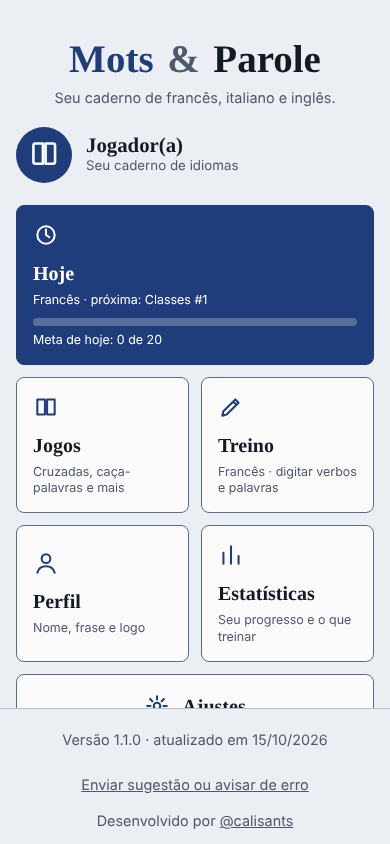
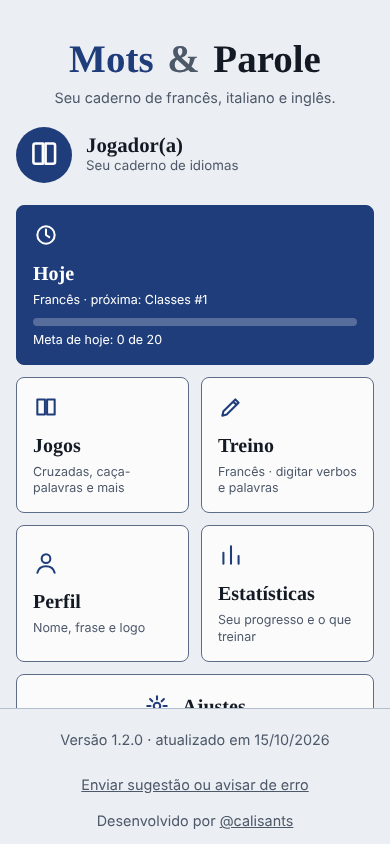
Tremor da tela como opção, tela própria de sugestões com envio por formulário do Google (sem GitHub)
Claude-Session: https://claude.ai/code/session_016zLFZSsmFk4gFpDYDLNisR

Changed region(s): [[0.4, 0.8626, 0.8615, 0.8934], [0.1538, 0.8626, 0.3692, 0.8934]]

diff --git a/index.html b/index.html
@@ -502,7 +502,15 @@ svg{display:block}
               <button type="button" data-k="hap" data-v="on">Ligada</button>
               <button type="button" data-k="hap" data-v="off">Desligada</button>
             </div>
-            <p class="help">Vibração leve no celular (não funciona em iPhone). O tremor suave na tela acontece sempre, a menos que o aparelho peça menos movimento.</p>
+            <p class="help">Vibração leve no celular (não funciona em iPhone).</p>
+          </section>
+          <section>
+            <h2 class="lab">Tremor da tela ao errar</h2>
+            <div class="seg" role="group" aria-label="Tremor da tela ao errar">
+              <button type="button" data-k="trem" data-v="on">Ligado</button>
+              <button type="button" data-k="trem" data-v="off">Desligado</button>
+            </div>
+            <p class="help">Se o aparelho estiver com "reduzir movimento", o tremor fica desligado de qualquer jeito.</p>
           </section>
         </div>
         <div class="stack">
@@ -547,6 +555,22 @@ svg{display:block}
     </div>
   </section>
 
+  <section class="screen" id="s-feedback" hidden>
+    <header class="bar">
+      <button type="button" class="btn icon" id="fb-back" aria-label="Voltar"><svg viewBox="0 0 24 24" width="22" height="22" aria-hidden="true"><path d="M15 5l-7 7 7 7" fill="none" stroke="currentColor" stroke-width="2.2" stroke-linecap="round" stroke-linejoin="round"/></svg></button>
+      <div class="ttl"><h2>Sugestão ou erro</h2></div>
+    </header>
+    <div class="scroll">
+      <p class="help">Conte o que você gostaria de melhorar ou o que deu errado. Vai para a Camila, que cuida do app.</p>
+      <div class="seg" role="group" aria-label="Tipo" style="margin-bottom:12px"><button type="button" data-fbk="Sugestão" aria-pressed="true">Sugestão</button><button type="button" data-fbk="Erro" aria-pressed="false">Aviso de erro</button></div>
+      <label for="fb-text" class="help">Sua mensagem (se for erro: em qual página e o que apareceu)</label>
+      <textarea id="fb-text" class="fbta" maxlength="1500"></textarea>
+      <label class="fbck"><input type="checkbox" id="fb-diag" checked> Enviar junto a versão do app, o idioma e o modelo do aparelho. Seu progresso e seu nome não vão.</label>
+      <button type="button" class="btn primary wide" id="fb-send" style="margin-bottom:8px">Enviar</button>
+      <button type="button" class="btn wide" id="fb-copy">Copiar o texto</button>
+      <p class="help" id="fb-note" aria-live="polite"></p>
+    </div>
+  </section>
   <section class="screen" id="s-game" hidden>
     <header class="bar">
       <button type="button" class="btn icon" data-back="index" aria-label="Voltar ao índice"><svg viewBox="0 0 24 24" width="22" height="22" aria-hidden="true"><path d="M15 5l-7 7 7 7" fill="none" stroke="currentColor" stroke-width="2.4" stroke-linecap="round" stroke-linejoin="round"/></svg></button>
@@ -661,7 +685,7 @@ svg{display:block}
 <div id="toast" role="status" aria-live="polite" hidden></div>
 
 <script>
-const APP_REL={v:"1.1.0",d:"2026-10-15"};
+const APP_REL={v:"1.2.0",d:"2026-10-15"};
 
 
 const RAW={
@@ -1554,7 +1578,7 @@ Object.keys(PALS).forEach(k=>{if(PALS[k].l)PALS[k].bg=PALS[k].l;});
 const AUTO_ACC={fr:["#1f3d7a","#8fa9e8"],it:["#1b5e43","#6fcf9f"],en:["#8a2a45","#e58aa5"]};
 
 /* ----- preferências e páginas concluídas (nada de progresso parcial) ----- */
-const S={lang:"fr",layout:"classic",mode:"auto",pal:"auto",custom:"#7a3b8f",player:"",motto:"",avatar:"book",plays:{},sk:{},sound:"on",snd:"mid",hap:"on",kb:false,vol:1,fTheme:"all",fLevel:"all",fGame:"all",done:{},rv:{},rvv:{},typed:false,goal:20,day:{d:"",n:0},zoom:false,bk:0,bks:0,since:0};
+const S={lang:"fr",layout:"classic",mode:"auto",pal:"auto",custom:"#7a3b8f",player:"",motto:"",avatar:"book",plays:{},sk:{},sound:"on",snd:"mid",hap:"on",trem:"on",kb:false,vol:1,fTheme:"all",fLevel:"all",fGame:"all",done:{},rv:{},rvv:{},typed:false,goal:20,day:{d:"",n:0},zoom:false,bk:0,bks:0,since:0};
 try{S.kb=!!(window.matchMedia&&matchMedia("(pointer:coarse)").matches);}catch(_){}
 (function load(){
   let sv=null;
@@ -1582,6 +1606,7 @@ try{S.kb=!!(window.matchMedia&&matchMedia("(pointer:coarse)").matches);}catch(_)
   if(sv.sound==="on"||sv.sound==="off")S.sound=sv.sound;
   if(sv.snd==="low"||sv.snd==="mid"||sv.snd==="high")S.snd=sv.snd;
   if(sv.hap==="on"||sv.hap==="off")S.hap=sv.hap;
+  if(sv.trem==="on"||sv.trem==="off")S.trem=sv.trem;
   if(typeof sv.kb==="boolean")S.kb=sv.kb;
   if(sv.vol===1||sv.vol===2||sv.vol===3||sv.vol===4||sv.vol===5)S.vol=sv.vol;
   if(sv.fTheme==="all"||CATS.some(c=>c[0]===sv.fTheme))S.fTheme=sv.fTheme;
@@ -1644,7 +1669,7 @@ const VOLG={low:1,mid:2.2,high:3.4};
 function wrongFx(){
   if(S.hap==="on"){try{if(navigator.vibrate)navigator.vibrate([40,30,40]);}catch(_){}}
   const mot=!(window.matchMedia&&matchMedia("(prefers-reduced-motion: reduce)").matches);
-  if(mot)$$("#s-game .stage:not([hidden]), #s-game .cstage:not([hidden]), #s-game .sstage:not([hidden]), #s-game .ostage:not([hidden])").forEach(el=>{
+  if(mot&&S.trem==="on")$$("#s-game .stage:not([hidden]), #s-game .cstage:not([hidden]), #s-game .sstage:not([hidden]), #s-game .ostage:not([hidden])").forEach(el=>{
     el.classList.remove("tremble");void el.offsetWidth;el.classList.add("tremble");
     setTimeout(()=>el.classList.remove("tremble"),500);
   });
@@ -1755,7 +1780,7 @@ function skRec(w,label,ok){
 function seedNow(){seedWith(S.lang+"|"+(P.vid||curVol().id)+"|"+P.id);}
 
 let clearStatsArmed=false;
-const SCREENS=["home","lang","vol","index","stats","settings","profile","game"];
+const SCREENS=["home","lang","vol","index","stats","settings","profile","game","feedback"];
 let clearArmed=false;
 function go(name){
   SCREENS.forEach(s=>{$("#s-"+s).hidden=s!==name;});
@@ -2937,32 +2962,35 @@ function verText(){return "Versão "+APP_REL.v+" · atualizado em "+APP_REL.d.sp
 function showVer(){["#ver-line","#ver-set"].forEach(s=>{const e=$(s);if(e)e.textContent=verText();});trainSub();}
 showVer();
 const _ri=renderIndex;renderIndex=function(){_ri.apply(this,arguments);trainSub();};
+/* Formulário do Google: preencha action (URL terminada em /formResponse) e os três campos entry.NNN.
+   Enquanto action estiver vazio, o envio fica desligado e o app só oferece "Copiar o texto". */
+const FB_FORM={action:"",kind:"",text:"",info:""};
+let fbFrom="home";
 function fbDiag(){return "Versão "+APP_REL.v+" ("+APP_REL.d+") · idioma "+S.lang+" · volume "+S.vol+" · tela "+innerWidth+"x"+innerHeight+" · "+navigator.userAgent;}
 function openFeedback(){
-  openSheet("Sugestão ou aviso de erro",
-    '<div class="seg" role="group" aria-label="Tipo" style="margin-bottom:10px"><button type="button" data-fbk="Sugestão" aria-pressed="true">Sugestão</button><button type="button" data-fbk="Erro" aria-pressed="false">Aviso de erro</button></div>'+
-    '<label for="fb-text" class="help">Conte o que aconteceu ou o que você gostaria. Se for erro, diga em qual página e o que apareceu.</label>'+
-    '<textarea id="fb-text" class="fbta" maxlength="1500"></textarea>'+
-    '<label class="fbck"><input type="checkbox" id="fb-diag" checked> Incluir versão do app, idioma e modelo do aparelho (ajuda a achar o erro). Seu progresso e seu nome não são enviados.</label>'+
-    '<button type="button" class="btn wide" id="fb-send" style="margin-bottom:8px">Enviar pelo GitHub</button>'+
-    '<button type="button" class="btn wide" id="fb-copy">Copiar o texto</button>'+
-    '<p class="help" id="fb-note">O envio abre uma página do GitHub com o texto já preenchido; é preciso ter conta lá. Sem conta, use "Copiar o texto" e mande para quem te passou o app.</p>',false);
+  const cur=SCREENS.find(s=>!$("#s-"+s).hidden);fbFrom=cur&&cur!=="feedback"?cur:"home";if(fbFrom==="game")fbFrom="home";
+  closeSheet();go("feedback");
+  $("#fb-note").textContent=FB_FORM.action?"":"O envio direto ainda não foi ativado neste app. Use \"Copiar o texto\" e mande para a Camila.";
+  $("#fb-send").disabled=!FB_FORM.action;
 }
 function fbBody(){const tx=$("#fb-text").value.trim();return tx+($("#fb-diag").checked?"\n\n---\n"+fbDiag():"");}
+$("#fb-back").addEventListener("click",()=>go(fbFrom));
 document.addEventListener("click",e=>{
   if(e.target.closest("[data-feedback]")){openFeedback();return;}
   const k=e.target.closest("[data-fbk]");
   if(k){$$("[data-fbk]").forEach(b=>b.setAttribute("aria-pressed",String(b===k)));return;}
   if(e.target.closest("#fb-send")){
-    const kind=($('[data-fbk][aria-pressed="true"]')||{dataset:{fbk:"Sugestão"}}).dataset.fbk,tx=$("#fb-text").value.trim();
-    if(!tx){$("#fb-note").textContent="Escreva algo antes de enviar.";$("#fb-text").focus();return;}
-    const url="https://github.com/calisants/motsparole/issues/new?title="+encodeURIComponent(kind+": "+tx.slice(0,60).replace(/\s+/g," "))+"&body="+encodeURIComponent(fbBody());
-    window.open(url,"_blank","noopener");
+    const tx=$("#fb-text").value.trim();if(!tx){$("#fb-note").textContent="Escreva algo antes de enviar.";$("#fb-text").focus();return;}
+    const kind=$('[data-fbk][aria-pressed="true"]').dataset.fbk,fd=new URLSearchParams();
+    fd.set(FB_FORM.kind,kind);fd.set(FB_FORM.text,tx);if($("#fb-diag").checked)fd.set(FB_FORM.info,fbDiag());
+    $("#fb-send").disabled=true;$("#fb-note").textContent="Enviando...";
+    fetch(FB_FORM.action,{method:"POST",mode:"no-cors",body:fd}).then(()=>{$("#fb-text").value="";$("#fb-note").textContent="Enviado. Obrigada!";say("Enviado. Obrigada!");$("#fb-send").disabled=false;})
+    .catch(()=>{$("#fb-note").textContent="Não consegui enviar (sem internet?). Seu texto continua aqui; tente de novo ou use \"Copiar o texto\".";$("#fb-send").disabled=false;});
     return;
   }
   if(e.target.closest("#fb-copy")){
     const tx=$("#fb-text").value.trim();if(!tx){$("#fb-note").textContent="Escreva algo antes de copiar.";return;}
-    const body=fbBody();
+    const body=$('[data-fbk][aria-pressed="true"]').dataset.fbk+": "+fbBody();
     (navigator.clipboard?navigator.clipboard.writeText(body):Promise.reject()).then(()=>say("Texto copiado.")).catch(()=>{$("#fb-text").value=body;$("#fb-text").select();$("#fb-note").textContent="Não consegui copiar sozinho: o texto está selecionado, copie com o seu aparelho.";});
   }
 });

diff --git a/src/p10.js b/src/p10.js
@@ -196,32 +196,35 @@ function verText(){return "Versão "+APP_REL.v+" · atualizado em "+APP_REL.d.sp
 function showVer(){["#ver-line","#ver-set"].forEach(s=>{const e=$(s);if(e)e.textContent=verText();});trainSub();}
 showVer();
 const _ri=renderIndex;renderIndex=function(){_ri.apply(this,arguments);trainSub();};
+/* Formulário do Google: preencha action (URL terminada em /formResponse) e os três campos entry.NNN.
+   Enquanto action estiver vazio, o envio fica desligado e o app só oferece "Copiar o texto". */
+const FB_FORM={action:"",kind:"",text:"",info:""};
+let fbFrom="home";
 function fbDiag(){return "Versão "+APP_REL.v+" ("+APP_REL.d+") · idioma "+S.lang+" · volume "+S.vol+" · tela "+innerWidth+"x"+innerHeight+" · "+navigator.userAgent;}
 function openFeedback(){
-  openSheet("Sugestão ou aviso de erro",
-    '<div class="seg" role="group" aria-label="Tipo" style="margin-bottom:10px"><button type="button" data-fbk="Sugestão" aria-pressed="true">Sugestão</button><button type="button" data-fbk="Erro" aria-pressed="false">Aviso de erro</button></div>'+
-    '<label for="fb-text" class="help">Conte o que aconteceu ou o que você gostaria. Se for erro, diga em qual página e o que apareceu.</label>'+
-    '<textarea id="fb-text" class="fbta" maxlength="1500"></textarea>'+
-    '<label class="fbck"><input type="checkbox" id="fb-diag" checked> Incluir versão do app, idioma e modelo do aparelho (ajuda a achar o erro). Seu progresso e seu nome não são enviados.</label>'+
-    '<button type="button" class="btn wide" id="fb-send" style="margin-bottom:8px">Enviar pelo GitHub</button>'+
-    '<button type="button" class="btn wide" id="fb-copy">Copiar o texto</button>'+
-    '<p class="help" id="fb-note">O envio abre uma página do GitHub com o texto já preenchido; é preciso ter conta lá. Sem conta, use "Copiar o texto" e mande para quem te passou o app.</p>',false);
+  const cur=SCREENS.find(s=>!$("#s-"+s).hidden);fbFrom=cur&&cur!=="feedback"?cur:"home";if(fbFrom==="game")fbFrom="home";
+  closeSheet();go("feedback");
+  $("#fb-note").textContent=FB_FORM.action?"":"O envio direto ainda não foi ativado neste app. Use \"Copiar o texto\" e mande para a Camila.";
+  $("#fb-send").disabled=!FB_FORM.action;
 }
 function fbBody(){const tx=$("#fb-text").value.trim();return tx+($("#fb-diag").checked?"\n\n---\n"+fbDiag():"");}
+$("#fb-back").addEventListener("click",()=>go(fbFrom));
 document.addEventListener("click",e=>{
   if(e.target.closest("[data-feedback]")){openFeedback();return;}
   const k=e.target.closest("[data-fbk]");
   if(k){$$("[data-fbk]").forEach(b=>b.setAttribute("aria-pressed",String(b===k)));return;}
   if(e.target.closest("#fb-send")){
-    const kind=($('[data-fbk][aria-pressed="true"]')||{dataset:{fbk:"Sugestão"}}).dataset.fbk,tx=$("#fb-text").value.trim();
-    if(!tx){$("#fb-note").textContent="Escreva algo antes de enviar.";$("#fb-text").focus();return;}
-    const url="https://github.com/calisants/motsparole/issues/new?title="+encodeURIComponent(kind+": "+tx.slice(0,60).replace(/\s+/g," "))+"&body="+encodeURIComponent(fbBody());
-    window.open(url,"_blank","noopener");
+    const tx=$("#fb-text").value.trim();if(!tx){$("#fb-note").textContent="Escreva algo antes de enviar.";$("#fb-text").focus();return;}
+    const kind=$('[data-fbk][aria-pressed="true"]').dataset.fbk,fd=new URLSearchParams();
+    fd.set(FB_FORM.kind,kind);fd.set(FB_FORM.text,tx);if($("#fb-diag").checked)fd.set(FB_FORM.info,fbDiag());
+    $("#fb-send").disabled=true;$("#fb-note").textContent="Enviando...";
+    fetch(FB_FORM.action,{method:"POST",mode:"no-cors",body:fd}).then(()=>{$("#fb-text").value="";$("#fb-note").textContent="Enviado. Obrigada!";say("Enviado. Obrigada!");$("#fb-send").disabled=false;})
+    .catch(()=>{$("#fb-note").textContent="Não consegui enviar (sem internet?). Seu texto continua aqui; tente de novo ou use \"Copiar o texto\".";$("#fb-send").disabled=false;});
     return;
   }
   if(e.target.closest("#fb-copy")){
     const tx=$("#fb-text").value.trim();if(!tx){$("#fb-note").textContent="Escreva algo antes de copiar.";return;}
-    const body=fbBody();
+    const body=$('[data-fbk][aria-pressed="true"]').dataset.fbk+": "+fbBody();
     (navigator.clipboard?navigator.clipboard.writeText(body):Promise.reject()).then(()=>say("Texto copiado.")).catch(()=>{$("#fb-text").value=body;$("#fb-text").select();$("#fb-note").textContent="Não consegui copiar sozinho: o texto está selecionado, copie com o seu aparelho.";});
   }
 });

diff --git a/src/p2.html b/src/p2.html
@@ -169,7 +169,15 @@
               <button type="button" data-k="hap" data-v="on">Ligada</button>
               <button type="button" data-k="hap" data-v="off">Desligada</button>
             </div>
-            <p class="help">Vibração leve no celular (não funciona em iPhone). O tremor suave na tela acontece sempre, a menos que o aparelho peça menos movimento.</p>
+            <p class="help">Vibração leve no celular (não funciona em iPhone).</p>
+          </section>
+          <section>
+            <h2 class="lab">Tremor da tela ao errar</h2>
+            <div class="seg" role="group" aria-label="Tremor da tela ao errar">
+              <button type="button" data-k="trem" data-v="on">Ligado</button>
+              <button type="button" data-k="trem" data-v="off">Desligado</button>
+            </div>
+            <p class="help">Se o aparelho estiver com "reduzir movimento", o tremor fica desligado de qualquer jeito.</p>
           </section>
         </div>
         <div class="stack">
@@ -214,6 +222,22 @@
     </div>
   </section>
 
+  <section class="screen" id="s-feedback" hidden>
+    <header class="bar">
+      <button type="button" class="btn icon" id="fb-back" aria-label="Voltar"><svg viewBox="0 0 24 24" width="22" height="22" aria-hidden="true"><path d="M15 5l-7 7 7 7" fill="none" stroke="currentColor" stroke-width="2.2" stroke-linecap="round" stroke-linejoin="round"/></svg></button>
+      <div class="ttl"><h2>Sugestão ou erro</h2></div>
+    </header>
+    <div class="scroll">
+      <p class="help">Conte o que você gostaria de melhorar ou o que deu errado. Vai para a Camila, que cuida do app.</p>
+      <div class="seg" role="group" aria-label="Tipo" style="margin-bottom:12px"><button type="button" data-fbk="Sugestão" aria-pressed="true">Sugestão</button><button type="button" data-fbk="Erro" aria-pressed="false">Aviso de erro</button></div>
+      <label for="fb-text" class="help">Sua mensagem (se for erro: em qual página e o que apareceu)</label>
+      <textarea id="fb-text" class="fbta" maxlength="1500"></textarea>
+      <label class="fbck"><input type="checkbox" id="fb-diag" checked> Enviar junto a versão do app, o idioma e o modelo do aparelho. Seu progresso e seu nome não vão.</label>
+      <button type="button" class="btn primary wide" id="fb-send" style="margin-bottom:8px">Enviar</button>
+      <button type="button" class="btn wide" id="fb-copy">Copiar o texto</button>
+      <p class="help" id="fb-note" aria-live="polite"></p>
+    </div>
+  </section>
   <section class="screen" id="s-game" hidden>
     <header class="bar">
       <button type="button" class="btn icon" data-back="index" aria-label="Voltar ao índice"><svg viewBox="0 0 24 24" width="22" height="22" aria-hidden="true"><path d="M15 5l-7 7 7 7" fill="none" stroke="currentColor" stroke-width="2.4" stroke-linecap="round" stroke-linejoin="round"/></svg></button>

diff --git a/src/p3.js b/src/p3.js
@@ -31,7 +31,7 @@ Object.keys(PALS).forEach(k=>{if(PALS[k].l)PALS[k].bg=PALS[k].l;});
 const AUTO_ACC={fr:["#1f3d7a","#8fa9e8"],it:["#1b5e43","#6fcf9f"],en:["#8a2a45","#e58aa5"]};
 
 /* ----- preferências e páginas concluídas (nada de progresso parcial) ----- */
-const S={lang:"fr",layout:"classic",mode:"auto",pal:"auto",custom:"#7a3b8f",player:"",motto:"",avatar:"book",plays:{},sk:{},sound:"on",snd:"mid",hap:"on",kb:false,vol:1,fTheme:"all",fLevel:"all",fGame:"all",done:{},rv:{},rvv:{},typed:false,goal:20,day:{d:"",n:0},zoom:false,bk:0,bks:0,since:0};
+const S={lang:"fr",layout:"classic",mode:"auto",pal:"auto",custom:"#7a3b8f",player:"",motto:"",avatar:"book",plays:{},sk:{},sound:"on",snd:"mid",hap:"on",trem:"on",kb:false,vol:1,fTheme:"all",fLevel:"all",fGame:"all",done:{},rv:{},rvv:{},typed:false,goal:20,day:{d:"",n:0},zoom:false,bk:0,bks:0,since:0};
 try{S.kb=!!(window.matchMedia&&matchMedia("(pointer:coarse)").matches);}catch(_){}
 (function load(){
   let sv=null;
@@ -59,6 +59,7 @@ try{S.kb=!!(window.matchMedia&&matchMedia("(pointer:coarse)").matches);}catch(_)
   if(sv.sound==="on"||sv.sound==="off")S.sound=sv.sound;
   if(sv.snd==="low"||sv.snd==="mid"||sv.snd==="high")S.snd=sv.snd;
   if(sv.hap==="on"||sv.hap==="off")S.hap=sv.hap;
+  if(sv.trem==="on"||sv.trem==="off")S.trem=sv.trem;
   if(typeof sv.kb==="boolean")S.kb=sv.kb;
   if(sv.vol===1||sv.vol===2||sv.vol===3||sv.vol===4||sv.vol===5)S.vol=sv.vol;
   if(sv.fTheme==="all"||CATS.some(c=>c[0]===sv.fTheme))S.fTheme=sv.fTheme;
@@ -121,7 +122,7 @@ const VOLG={low:1,mid:2.2,high:3.4};
 function wrongFx(){
   if(S.hap==="on"){try{if(navigator.vibrate)navigator.vibrate([40,30,40]);}catch(_){}}
   const mot=!(window.matchMedia&&matchMedia("(prefers-reduced-motion: reduce)").matches);
-  if(mot)$$("#s-game .stage:not([hidden]), #s-game .cstage:not([hidden]), #s-game .sstage:not([hidden]), #s-game .ostage:not([hidden])").forEach(el=>{
+  if(mot&&S.trem==="on")$$("#s-game .stage:not([hidden]), #s-game .cstage:not([hidden]), #s-game .sstage:not([hidden]), #s-game .ostage:not([hidden])").forEach(el=>{
     el.classList.remove("tremble");void el.offsetWidth;el.classList.add("tremble");
     setTimeout(()=>el.classList.remove("tremble"),500);
   });
@@ -232,7 +233,7 @@ function skRec(w,label,ok){
 function seedNow(){seedWith(S.lang+"|"+(P.vid||curVol().id)+"|"+P.id);}
 
 let clearStatsArmed=false;
-const SCREENS=["home","lang","vol","index","stats","settings","profile","game"];
+const SCREENS=["home","lang","vol","index","stats","settings","profile","game","feedback"];
 let clearArmed=false;
 function go(name){
   SCREENS.forEach(s=>{$("#s-"+s).hidden=s!==name;});

diff --git a/sw.js b/sw.js
@@ -1,6 +1,6 @@
 // Service worker do Mots & Parole: guarda o app no aparelho para funcionar sem internet.
 // Ao publicar uma versão nova do index.html, troque o número em CACHE (v6 -> v7, e APP_VERSION no index.html).
-const CACHE = "mots-parole-v23"; // só o cache muda; a chave do LocalStorage (APP_VERSION) segue v6 para não apagar o progresso
+const CACHE = "mots-parole-v24"; // só o cache muda; a chave do LocalStorage (APP_VERSION) segue v6 para não apagar o progresso
 const ASSETS = [
   "./",
   "./index.html",

diff --git a/src/version.js b/src/version.js
@@ -1,1 +1,1 @@
-const APP_REL={v:"1.1.0",d:"2026-10-15"};
+const APP_REL={v:"1.2.0",d:"2026-10-15"};

diff --git a/src/tests/t14.py b/src/tests/t14.py
@@ -17,15 +17,18 @@ try:
     assert 'Italiano' in pg.inner_text('#sheet-in')
     pg.click('[data-train=w]');pg.wait_for_timeout(200);assert 'Italiano' in pg.inner_text('#g-sub');print('sub:',pg.inner_text('#g-sub'))
     pg.evaluate("()=>go('home')");assert 'Italiano' in pg.inner_text('#train-sub')
-    # sugestões
-    pg.evaluate("()=>go('settings')");pg.click('#s-settings [data-feedback]');assert pg.is_visible('#fb-text')
-    pg.click('#fb-send');assert 'Escreva algo' in pg.inner_text('#fb-note')
-    pg.fill('#fb-text','teste');
-    with ctx.expect_page() as np_: pg.click('#fb-send')
-    from urllib.parse import unquote
-    u=unquote(unquote(np_.value.url));print('url:',u[:120]);assert 'github.com' in u and 'calisants/motsparole/issues/new?title=' in u
-    assert 'Versão 1.1.0' in u and 'camilimasiv' not in u
-    pg.evaluate("()=>closeSheet()")
+    # sugestões: tela própria, sem GitHub; envio por formulário quando configurado
+    pg.evaluate("()=>go('settings')");pg.click('#s-settings [data-feedback]');assert pg.is_visible('#s-feedback') and pg.is_visible('#fb-text')
+    assert pg.is_disabled('#fb-send') and 'ainda não foi ativado' in pg.inner_text('#fb-note')
+    assert 'github.com/calisants/motsparole/issues' not in pg.content()
+    posts=[]
+    pg.route('https://docs.google.com/forms/**',lambda r:(posts.append(r.request.post_data),r.fulfill(status=200,body='ok')))
+    pg.evaluate("()=>{FB_FORM.action='https://docs.google.com/forms/d/e/TESTE/formResponse';FB_FORM.kind='entry.1';FB_FORM.text='entry.2';FB_FORM.info='entry.3'}")
+    pg.evaluate("()=>{$('#fb-send').disabled=false}");pg.click('#fb-send');assert 'Escreva algo' in pg.inner_text('#fb-note')
+    pg.fill('#fb-text','teste de envio');pg.click('[data-fbk=Erro]');pg.click('#fb-send');pg.wait_for_timeout(500)
+    print('post:',posts);assert posts and 'entry.2=teste' in posts[0] and 'entry.1=Erro' in posts[0] and 'entry.3=Vers' in posts[0] and 'camilimasiv' not in posts[0]
+    assert 'Enviado' in pg.inner_text('#fb-note') and pg.input_value('#fb-text')==''
+    pg.click('#fb-back');assert pg.is_visible('#s-settings')
     # volumes
     v=pg.evaluate("()=>VOLUMES.map(v=>v.title+' :: '+v.types.map(t=>t[0]).join(','))");print(*v,sep='\n')
     assert [x.split(' ·')[0] for x in v]==['Volume 1','Volume 2','Volume 3','Volume 4','Volume 5']
@@ -61,6 +64,9 @@ try:
     pg.evaluate("()=>{S.sound='off';sfx('bad')}")
     assert pg.evaluate("()=>[...document.querySelectorAll('#s-game .tremble')].length")>=1,'tremor na tela'
     pg.evaluate("()=>go('settings')");pg.click('#s-settings [data-k=snd][data-v=high]');assert pg.evaluate("()=>S.snd")=='high'
+    pg.click('#s-settings [data-k=trem][data-v=off]');assert pg.evaluate("()=>S.trem")=='off'
+    pg.evaluate("()=>{go('game');document.querySelector('#gstage').hidden=false;document.querySelectorAll('.tremble').forEach(e=>e.classList.remove('tremble'));sfx('bad')}");assert pg.evaluate("()=>document.querySelectorAll('.tremble').length")==0
+    pg.evaluate("()=>go('settings')")
     pg.click('#s-settings [data-k=hap][data-v=off]');assert pg.evaluate("()=>S.hap")=='off'
     pg.reload();pg.wait_for_timeout(500);assert pg.evaluate("()=>[S.snd,S.hap]")==['high','off']
     print('erros:',errs);assert not errs

diff --git a/src/README.md b/src/README.md
@@ -23,3 +23,6 @@ Os arquivos `gram_items*.json`, `bank.json` e `syn_*.json` já estão prontos aq
 
 ## Ao publicar
 Troque o número do cache em `../sw.js` (mots-parole-vNN) e a linha de `VERSION`. Não mude `APP_VERSION` em `p3.js`, senão o progresso some.
+
+## Formulário de sugestões
+O app envia para um Google Forms. Em `p10.js`, preencha `FB_FORM` (`action` = URL do formulário terminando em `/formResponse`; `kind`, `text`, `info` = `entry.NNN` de cada pergunta). Enquanto `action` estiver vazio, o envio fica desligado e só há "Copiar o texto". Formulário e planilha de respostas: pasta «motseparole» no Drive da Camila.
